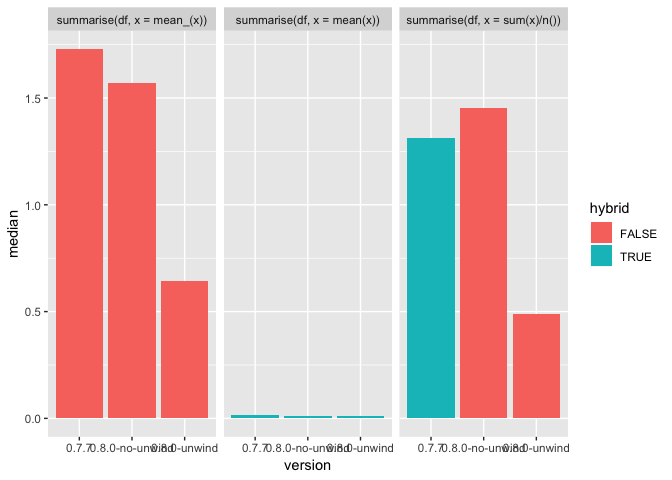
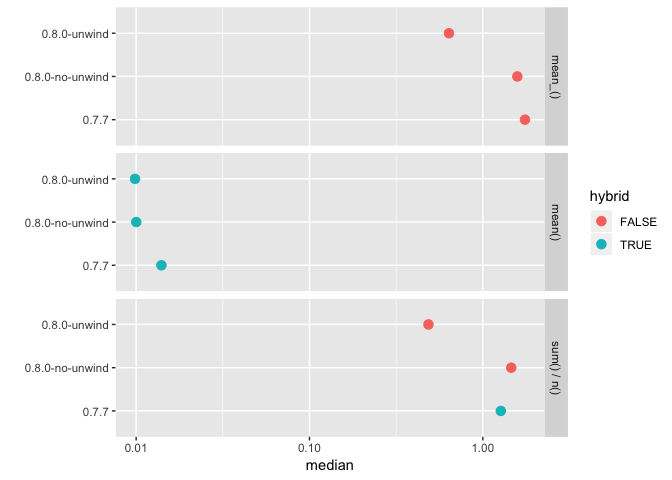
update ggplot

diff --git a/README.md b/README.md
@@ -26,27 +26,28 @@ no_hybrid <- benchs({
     df <- tibble(x = rnorm(1e6), g = rep(1:1e5, 10)) %>% group_by(g)
   }, 
   summarise(df, x = mean_(x))
-) %>% mutate(hybrid = FALSE)
+) %>% mutate(hybrid = FALSE, expression = "mean_()")
 
 # hybrid
 hybrid <- benchs(
   df <- tibble(x = rnorm(1e6), g = rep(1:1e5, 10)) %>% group_by(g),
   summarise(df, x = mean(x))
-) %>% mutate(hybrid = TRUE)
+) %>% mutate(hybrid = TRUE,  expression = "mean()")
 
 # partial hybrid
 partial_hybrid <- benchs(
   df <- tibble(x = rnorm(1e6), g = rep(1:1e5, 10)) %>% group_by(g),
   summarise(df, x = sum(x) / n())
-) %>% mutate(hybrid = c(TRUE, FALSE, FALSE))
+) %>% mutate(hybrid = c(TRUE, FALSE, FALSE),  expression = "sum() / n()")
 
 data <- bind_rows(no_hybrid, hybrid, partial_hybrid) %>% 
   select(version, unwind, hybrid, expression, min:mem_alloc)
 
-ggplot(data, aes(x = version, y = median, fill = hybrid)) + 
-  geom_bar(stat="identity") + 
-  facet_grid(.~expression) + 
-  labs("")
+ggplot(data, aes(y = version, x = median, col = hybrid)) + 
+  geom_point(size = 3) + 
+  facet_grid(expression~.) +
+  scale_x_log10() + 
+  ylab("")
 ```
 
 <img src="man/figures/README-unnamed-chunk-2-1.png" width="100%" />
